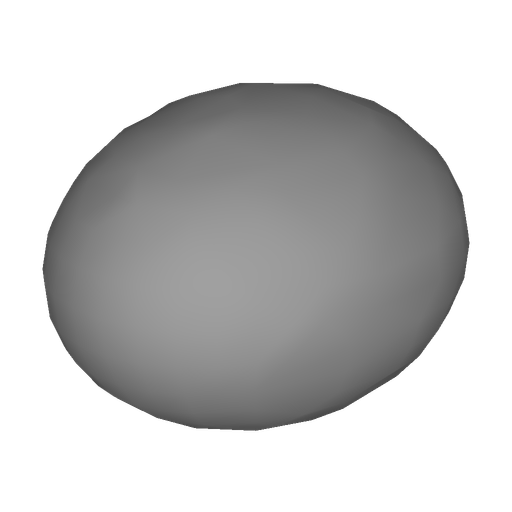
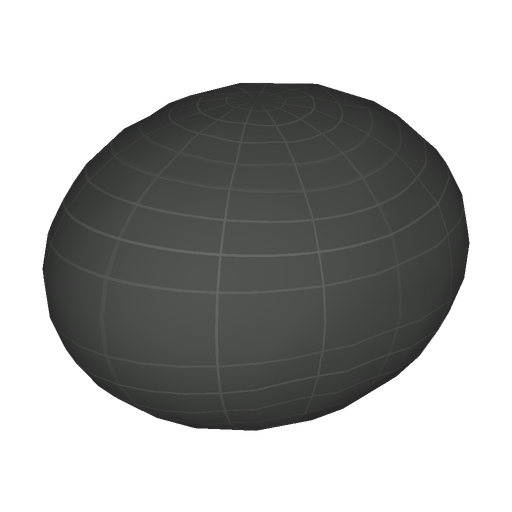
Use the shared no-coverage grid for untextured Adrastea

diff --git a/src/planets/adrastea/SOURCE.md b/src/planets/adrastea/SOURCE.md
@@ -1,6 +1,6 @@
 # Adrastea sources and presentation
 
-The **Shape model** dataset uses a triaxial ellipsoid with semi-axes 10 × 8 × 7 km, from [NAIF pck00011](https://naif.jpl.nasa.gov/pub/naif/generic_kernels/pck/pck00011.tpc), BODY515_RADII. This is a dimension-constrained approximation, not a detailed measured mesh. The long axis points toward Jupiter and the short axis is the pole. Units, sampling formula and constant neutral material are in source/measurements.json. The checked-in radius table is sampled at 10°; shared meshoptimizer reduces it before native raster-triangle preparation. Neutral gray is a display choice, not an observed color or albedo. Flood displays the constant material without directional attenuation and therefore looks flat; enabling Shadows reveals the model curvature with the shared fixed-epoch Sun lighting.
+The **Shape model** dataset uses a triaxial ellipsoid with semi-axes 10 × 8 × 7 km, from [NAIF pck00011](https://naif.jpl.nasa.gov/pub/naif/generic_kernels/pck/pck00011.tpc), BODY515_RADII. This is a dimension-constrained approximation, not a detailed measured mesh. The long axis points toward Jupiter and the short axis is the pole. Units, sampling formula and constant neutral material are in source/measurements.json. The checked-in radius table is sampled at 10°; shared meshoptimizer reduces it before native raster-triangle preparation. The standard gray cartographic grid marks the absence of observed surface imagery. The constant input is declared entirely no-data and rendered by the shared missing-coverage preparer; grid lines are not terrain or measured surface color. Flood displays the grid, while Shadows adds the shared fixed-epoch Sun lighting.
 
 ## Dataset survey
 
@@ -9,4 +9,4 @@ The **Shape model** dataset uses a triaxial ellipsoid with semi-axes 10 × 8 × 
 - **Excluded as a geometry source:** the NASA/JPL [PIA01624 montage](https://science.nasa.gov/photojournal/shapes-of-the-small-inner-satellites-of-jupiter/) illustrates the inferred axes but is not a downloadable numeric shape mesh.
 - **Literature:** [Denk et al., Io and the Minor Jovian Moons – Prospects for JUICE (2026)](https://tilmanndenk.de/wp-content/uploads/2026_SSR_DenkEtAl_IoMinorMoons.pdf), Table 3 and section 3, explicitly says only Adrastea’s axis dimensions could be derived. Figure 10 identifies the five Galileo observations. No resolved elevation or composition map is qualified, so no such lens is offered.
 
-All modeled surface pixels describe material on the approximate ellipsoid; they are not filled observational coverage. The original science inputs remain separate from the prepared display assets. Restore ignored font and sky inputs with the acquisition plan; checked-in model inputs need no download. The 512 px map and dedicated small minimap retain a constant material, so extra texel density would add no information.
+All surface pixels are marked as missing observational coverage on the approximate ellipsoid. The original science inputs remain separate from the prepared display assets. Restore ignored font and sky inputs with the acquisition plan; checked-in model inputs need no download. The surface, poles, thumbnail, small minimap and context portrait use the same standard grid.
